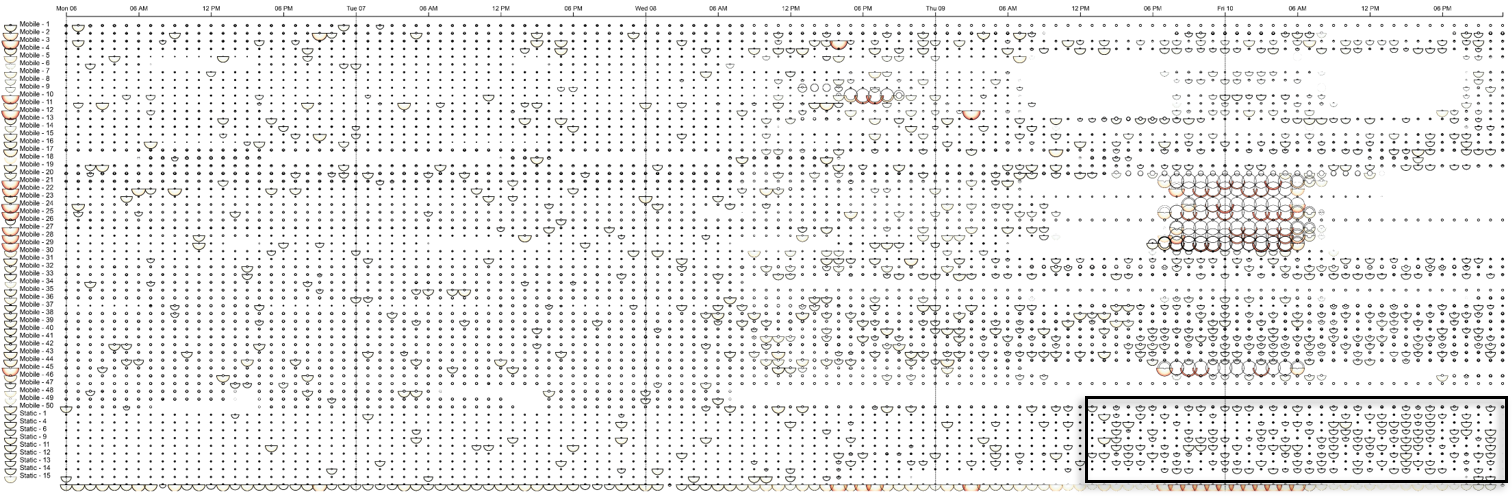
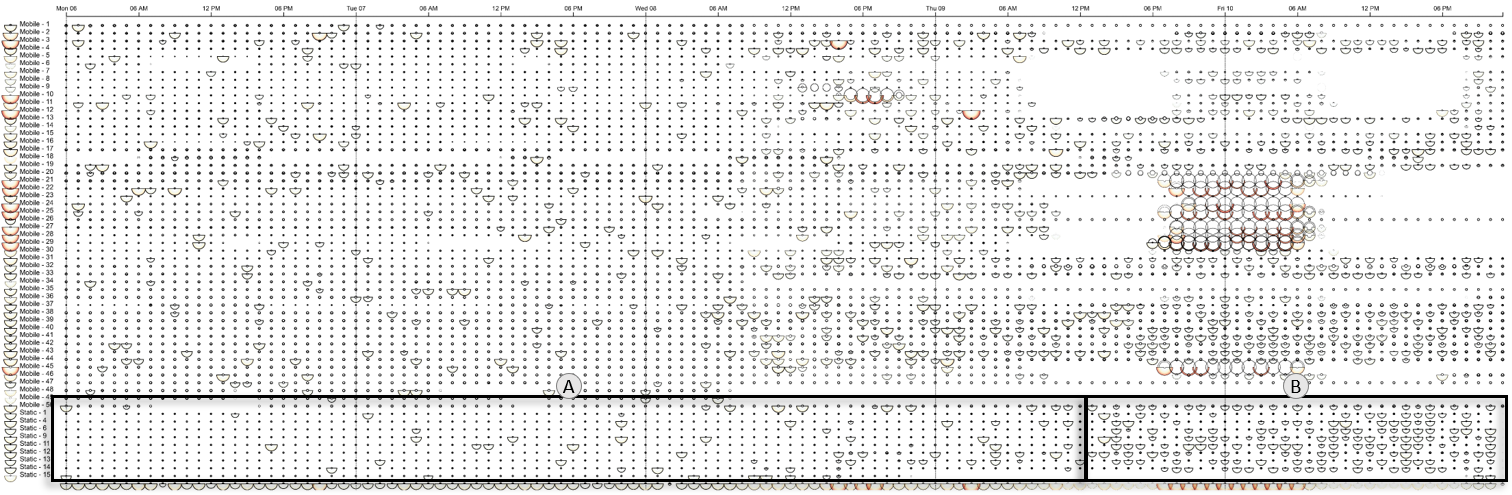
up

diff --git a/VAST19/gc/TTU-Vuong-GC/index.htm b/VAST19/gc/TTU-Vuong-GC/index.htm
@@ -121,10 +121,10 @@
         <div>The earth quake mentioned in Y*nt application (mini-challenge 3 - Figure 3 (B)) show that the 3rd earthquake get a lot of reports (Figure 3 (C)). However, from the result from Rumble appplication (mini-challenge 1 - Figure 3 (A)) the 3rd earth quake's shake intensity is not highest as the 2nd earthquake. </div>
         <img id="eg2" src="images/mc1-mc3-power.png" class="full">
         <p class="caption"><span>Figure 4. Discontinuous report in mini-challenge 1 and the power reports from mini-challenge 3.</span></p>
-        <div>In mini-challenge 1 (Figure 4 A), there are some range of time don't have any reports. The reason can be didn't have any damaged or the power off ( people can't report the damaged). In this case, mini- challenge 3 ( Figure 4 B) show the power problem in the none report time (C).  </div>
+        <div>In mini-challenge 1 (Figure 4 (A)), there are some range of time don't have any reports. The reason can be didn't have any damaged or the power off ( people can't report the damaged). In this case, mini- challenge 3 ( Figure 4 (B)) show the power problem in the none report time (C).  </div>
         <img id="eg3" src="images/mc1-mc2-mc3-aftershock.png" class="full">
         <p class="caption"><span>Figure 5. Aftershock - an hidden event.</span></p>
-        <div>Although the aftershock event is not easy to observe in mini-challenge 1 (Figure 4 (A)) or mini-challenge 3 (Figure 4 (B)), that event is very clear in mini-challenge 2 (Figure 5) through the uncertainty of statics sensors (Figure 5 - black box). </div>
+        <div>Although the aftershock event is not easy to observe in mini-challenge 1 (Figure 4 (A)) or mini-challenge 3 (Figure 4 (B)), that event is very clear in mini-challenge 2 (Figure 5) through the uncertainty of statics sensors. In detail, the uncertainty (Figure 5 (B) ). </div>
         <h4>Questions</h4>
 
         <div class="question">3- Are there instances where a pattern emerges in one set of data before it presents itself in another? Could one data stream be used to predict events in the others? Provide examples you identify. Limit your response to 500 words and 8 images.</div>
